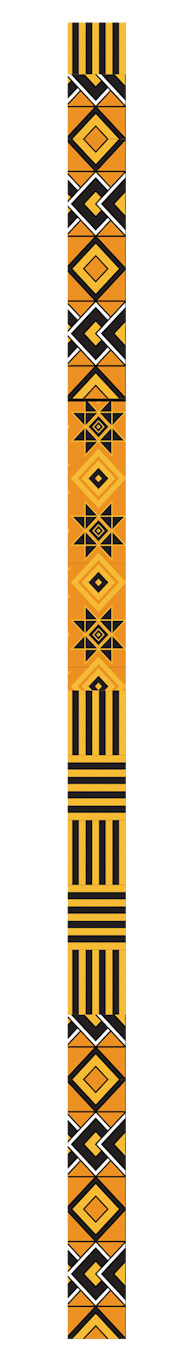
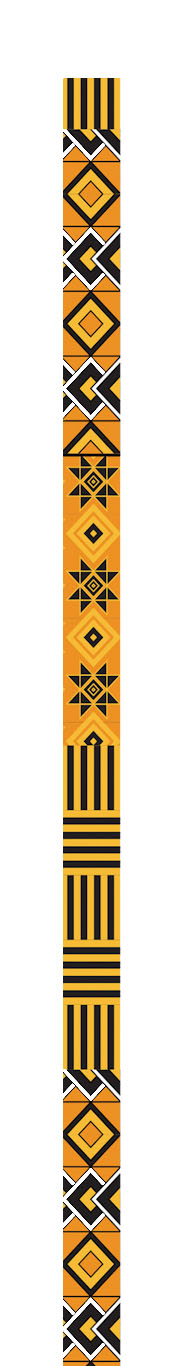
Updated style
Added the side pic and watermark as edited png files no white background

Changed region(s): [[0.3226, 0.0, 0.6989, 1.0]]

diff --git a/contact.html b/contact.html
@@ -32,12 +32,6 @@
 </head>
 
 <body>
-  <div id="watermark">
-    <img class="watermark-logo-other" src="assets/img/logo-sun.png" alt="">
-  </div>
-  <div id="side-pic">
-    <img src="assets/img/Musana pattern_edited.jpg" alt="">
-  </div>
 
   <!-- ======= Header ======= -->
   <header id="header" class="fixed-top">
@@ -69,92 +63,78 @@
   </header><!-- End Header -->
 
   <main id="main">
+    <div id="watermark">
+      <img class="watermark-logo-other" src="assets/img/logo-sun.gif" alt="">
+    </div>
+    <div id="side-pic">
+      <img src="assets/img/Musana-pattern_edited.gif" alt="">
+    </div>
 
     <!-- ======= Contact Section ======= -->
-    <section id="contact" class="contact">
-      <div class="container" data-aos="fade-up">
+    <section id="contact" class="contact text-center">
+      <div class="container justify-content-center align-items-center" data-aos="fade-up">
 
         <div class="section-title">
           <h2>Contact</h2>
-          <p>We would love to hear from you! Please send us a message using the form below.</p>
+          <p>We would love to hear from you!</p>
         </div>
 
-        <div>
-          <iframe style="border:0; width: 100%; height: 270px;"
-            src="https://www.google.com/maps/embed?pb=!1m14!1m8!1m3!1d12097.433213460943!2d-74.0062269!3d40.7101282!3m2!1i1024!2i768!4f13.1!3m3!1m2!1s0x0%3A0xb89d1fe6bc499443!2sDowntown+Conference+Center!5e0!3m2!1smk!2sbg!4v1539943755621"
-            frameborder="0" allowfullscreen></iframe>
+        <div class="row mb-5 contact-social-links">
+          <div class="col-4">
+            <a href="https://twitter.com/musanacarts" class="twitter"><i class="icofont-twitter"></i></a>
+          </div>
+          <div class="col-4">
+            <a href="https://www.facebook.com/musanacarts/" class="facebook"><i class="icofont-facebook"></i></a>
+          </div>
+          <div class="col-4">
+            <a href="http://instagram.com/musanacarts" class="instagram"><i class="icofont-instagram"></i></a>
+          </div>
         </div>
 
-        <div class="row mt-5">
+
+        <div class="row contact-info mt-5">
 
           <div class="col-lg-4">
-            <div class="info">
-              <div class="address">
-                <i class="icofont-google-map"></i>
-                <h4>Location:</h4>
-                <p>A108 Adam Street, New York, NY 535022</p>
-              </div>
-
-              <div class="email">
-                <i class="icofont-envelope"></i>
-                <h4>Email:</h4>
-                <p>info@example.com</p>
-              </div>
-
-              <div class="phone">
-                <i class="icofont-phone"></i>
-                <h4>Call:</h4>
-                <p>+1 5589 55488 55s</p>
-              </div>
-
+            <div class="address">
+              <i class="icofont-google-map"></i>
+              <br>
+              <br>
+              <h4>Location:</h4>
+              <p>A108 Adam Street, New York, NY 535022</p>
             </div>
-
           </div>
 
-          <div class="col-lg-8 mt-5 mt-lg-0">
+          <div class="col-lg-4">
+            <div class="email">
+              <i class="icofont-envelope"></i>
+              <br>
+              <br>
+              <h4>Email:</h4>
+              <p>info@example.com</p>
+            </div>
+          </div>
 
-            <form action="forms/contact.php" method="post" role="form" class="php-email-form">
-              <div class="form-row">
-                <div class="col-md-6 form-group">
-                  <input type="text" name="name" class="form-control" id="name" placeholder="Your Name"
-                    data-rule="minlen:4" data-msg="Please enter at least 4 chars" />
-                  <div class="validate"></div>
-                </div>
-                <div class="col-md-6 form-group">
-                  <input type="email" class="form-control" name="email" id="email" placeholder="Your Email"
-                    data-rule="email" data-msg="Please enter a valid email" />
-                  <div class="validate"></div>
-                </div>
-              </div>
-              <div class="form-group">
-                <input type="text" class="form-control" name="subject" id="subject" placeholder="Subject"
-                  data-rule="minlen:4" data-msg="Please enter at least 8 chars of subject" />
-                <div class="validate"></div>
-              </div>
-              <div class="form-group">
-                <textarea class="form-control" name="message" rows="5" data-rule="required"
-                  data-msg="Please write something for us" placeholder="Message"></textarea>
-                <div class="validate"></div>
-              </div>
-              <div class="mb-3">
-                <div class="loading">Loading</div>
-                <div class="error-message"></div>
-                <div class="sent-message">Your message has been sent. Thank you!</div>
-              </div>
-              <div class="text-center"><button type="submit">Send Message</button></div>
-            </form>
 
+          <div class="col-lg-4">
+            <div class="phone">
+              <i class="icofont-phone"></i>
+              <br>
+              <br>
+              <h4>Call:</h4>
+              <p>+1 5589 55488 55s</p>
+            </div>
           </div>
 
         </div>
 
-      </div>
+
+
     </section><!-- End Contact Section -->
 
   </main><!-- End #main -->
 
   <!-- ======= Footer ======= -->
-  <footer id="footer">
+  <footer id="footer" class="bottom-footer">
     <div class="container">
       <div class="copyright">
         &copy; Copyright <strong><span>Musana Carts</span></strong>. All Rights Reserved

diff --git a/assets/css/style.css b/assets/css/style.css
@@ -1,17 +1,12 @@
-/**
-* Template Name: Kelly - v2.0.0
-* Template URL: https://bootstrapmade.com/kelly-free-bootstrap-cv-resume-html-template/
-* Author: BootstrapMade.com
-* License: https://bootstrapmade.com/license/
-*/
+
 
 /*--------------------------------------------------------------
 # General
 --------------------------------------------------------------*/
 body {
   font-family: "Open Sans", sans-serif;
-  color: #444444;
-  /* background:url('../img/Musana\ pattern_edited.jpg') no-repeat left; */
+  color: #0a0a0a;
+  background-color: rgba(88, 88, 88, 0.596);
 }
 
 a {
@@ -38,7 +33,7 @@ h1, h2, h3, h4, h5, h6 {
 }
 
 .container{
-  padding-left: 100px !important;
+  padding-left: 50 !important;
   padding-right: 0 !important;
   padding-top: 0;
   padding-bottom: 0;
@@ -53,6 +48,7 @@ h1, h2, h3, h4, h5, h6 {
   left:35%;
   top: 600px;
   overflow: hidden;
+  mix-blend-mode: multiply;
 }
 
 #watermark .watermark-logo-other{
@@ -64,43 +60,44 @@ h1, h2, h3, h4, h5, h6 {
   left:35%;
   top: 100px;
   overflow: hidden;
+  mix-blend-mode: multiply;
 }
 
 #side-pic img{
   position: fixed;
   height: 100vh;
-  width: 100px;
+  
   z-index: -10;
   padding:0;
   margin: 0;
   overflow: hidden;
-  transform: translateX(50px);
+  transform: translateX(25px);
 }
 
 #side-pic-home img{
   position: absolute;
   height: 80vh;
-  width: 100px;
   z-index: -10;
   padding:0;
   margin: 0;
   overflow: hidden;
-  transform: translateX(50px);
+  transform: translateX(25px);
 }
 
 @media(max-width:748px){
   #watermark .watermark-logo{
     width: 200px;
+    top: 800px;
   }
   #watermark .watermark-logo-other{
     width: 200px;
   }
   #side-pic img{
-    transform: translateX(0px);
+    transform: translateX(-25px);   
   }
   #side-pic-home img{
-    transform: translateX(0px);
-    height: 125vh;
+    transform: translateX(-25px);
+    height: 100vh;    
   }
 
 }
@@ -543,14 +540,12 @@ h1, h2, h3, h4, h5, h6 {
   font-weight: 700;
   line-height: 56px;
   color: #ffffff;
-  transform:translateX(-50px);
 }
 
 #hero h2 {
   color: #ffffff;
   margin: 10px 0 0 0;
   font-size: 22px;
-  transform:translateX(-50px);
 }
 
 #hero .btn-about {
@@ -566,7 +561,6 @@ h1, h2, h3, h4, h5, h6 {
   margin-top: 30px;
   color: #fff;
   background: #FDC844;
-  transform:translateX(-50px);
 }
 
 #hero .btn-about:hover {
@@ -579,7 +573,7 @@ h1, h2, h3, h4, h5, h6 {
   }
 }
 
-@media (max-width: 992px) {
+@media (max-width: 992px) {  
   #hero:before {
     content: "";
     background: rgba(0, 0, 0, 0.363);
@@ -1389,9 +1383,29 @@ section {
 /*--------------------------------------------------------------
 # Contact
 --------------------------------------------------------------*/
+.info i{
+  font-size: 30px;
+}
+
+.contact-info i{
+  font-size: 30px;
+  background: rgba(102, 102, 102, 0.664);
+  border-radius: 10px;
+  padding:10px 20px;
+  margin-bottom: 30px;
+  color: #FDC844;
+}
+
 .contact .info {
   width: 100%;
   background: #fff;
+}
+
+.contact-social-links a{
+  font-size: 34px;
+  background: rgba(102, 102, 102, 0.664);
+  border-radius: 10px;
+  padding:10px 20px;
 }
 
 .contact .info i {
@@ -1545,6 +1559,7 @@ section {
   color: #222222;
   font-size: 14px;
   text-align: center;
+  bottom: 0;
 }
 
 #footer .credits {
@@ -1554,4 +1569,9 @@ section {
 
 #footer .credits a {
   color: #FDC844;
+}
+
+.bottom-footer{
+  position: absolute;
+  width: 100%;
 }

diff --git a/about.html b/about.html
@@ -68,12 +68,14 @@
 
   </div>
 
+
+
   <main id="main">
     <div id="watermark">
-      <img class="watermark-logo-other" src="assets/img/logo-sun.png" alt="">
+      <img class="watermark-logo-other" src="assets/img/logo-sun.gif" alt="">
     </div>
     <div id="side-pic">
-      <img src="assets/img/Musana pattern_edited.jpg" alt="">
+      <img src="assets/img/Musana-pattern_edited.gif" alt="">
     </div>
 
     <!-- ======= About Section ======= -->

diff --git a/services.html b/services.html
@@ -64,10 +64,10 @@
 
   <main id="main">
     <div id="watermark">
-      <img class="watermark-logo-other" src="assets/img/logo-sun.png" alt="">
+      <img class="watermark-logo-other" src="assets/img/logo-sun.gif" alt="">
     </div>
     <div id="side-pic">
-      <img src="assets/img/Musana pattern_edited.jpg" alt="">
+      <img src="assets/img/Musana-pattern_edited.gif" alt="">
     </div>
 
     <!-- ======= Services Section ======= -->

diff --git a/resume.html b/resume.html
@@ -64,10 +64,10 @@
 
   <main id="main">
     <div id="watermark">
-      <img class="watermark-logo-other" src="assets/img/logo-sun.png" alt="">
+      <img class="watermark-logo-other" src="assets/img/logo-sun.gif" alt="">
     </div>
     <div id="side-pic">
-      <img src="assets/img/Musana pattern_edited.jpg" alt="">
+      <img src="assets/img/Musana-pattern_edited.gif" alt="">
     </div>
 
     <!-- ======= Resume Section ======= -->

diff --git a/portfolio.html b/portfolio.html
@@ -64,10 +64,10 @@
 
   <main id="main">
     <div id="watermark">
-      <img class="watermark-logo-other" src="assets/img/logo-sun.png" alt="">
+      <img class="watermark-logo-other" src="assets/img/logo-sun.gif" alt="">
     </div>
     <div id="side-pic">
-      <img src="assets/img/Musana pattern_edited.jpg" alt="">
+      <img src="assets/img/Musana-pattern_edited.gif" alt="">
     </div>
 
     <!-- ======= Team Section ======= -->

diff --git a/index.html b/index.html
@@ -84,11 +84,11 @@
 
 
   <div id="watermark">
-    <img class="watermark-logo" src="assets/img/logo-sun.png" alt="">
+    <img class="watermark-logo" src="assets/img/logo-sun.gif" alt="">
   </div>
 
   <div id="side-pic-home">
-    <img src="assets/img/Musana pattern_edited.jpg" alt="">
+    <img src="assets/img/Musana-pattern_edited.gif" alt="">
   </div>
 
   <section id="WriteUp">
